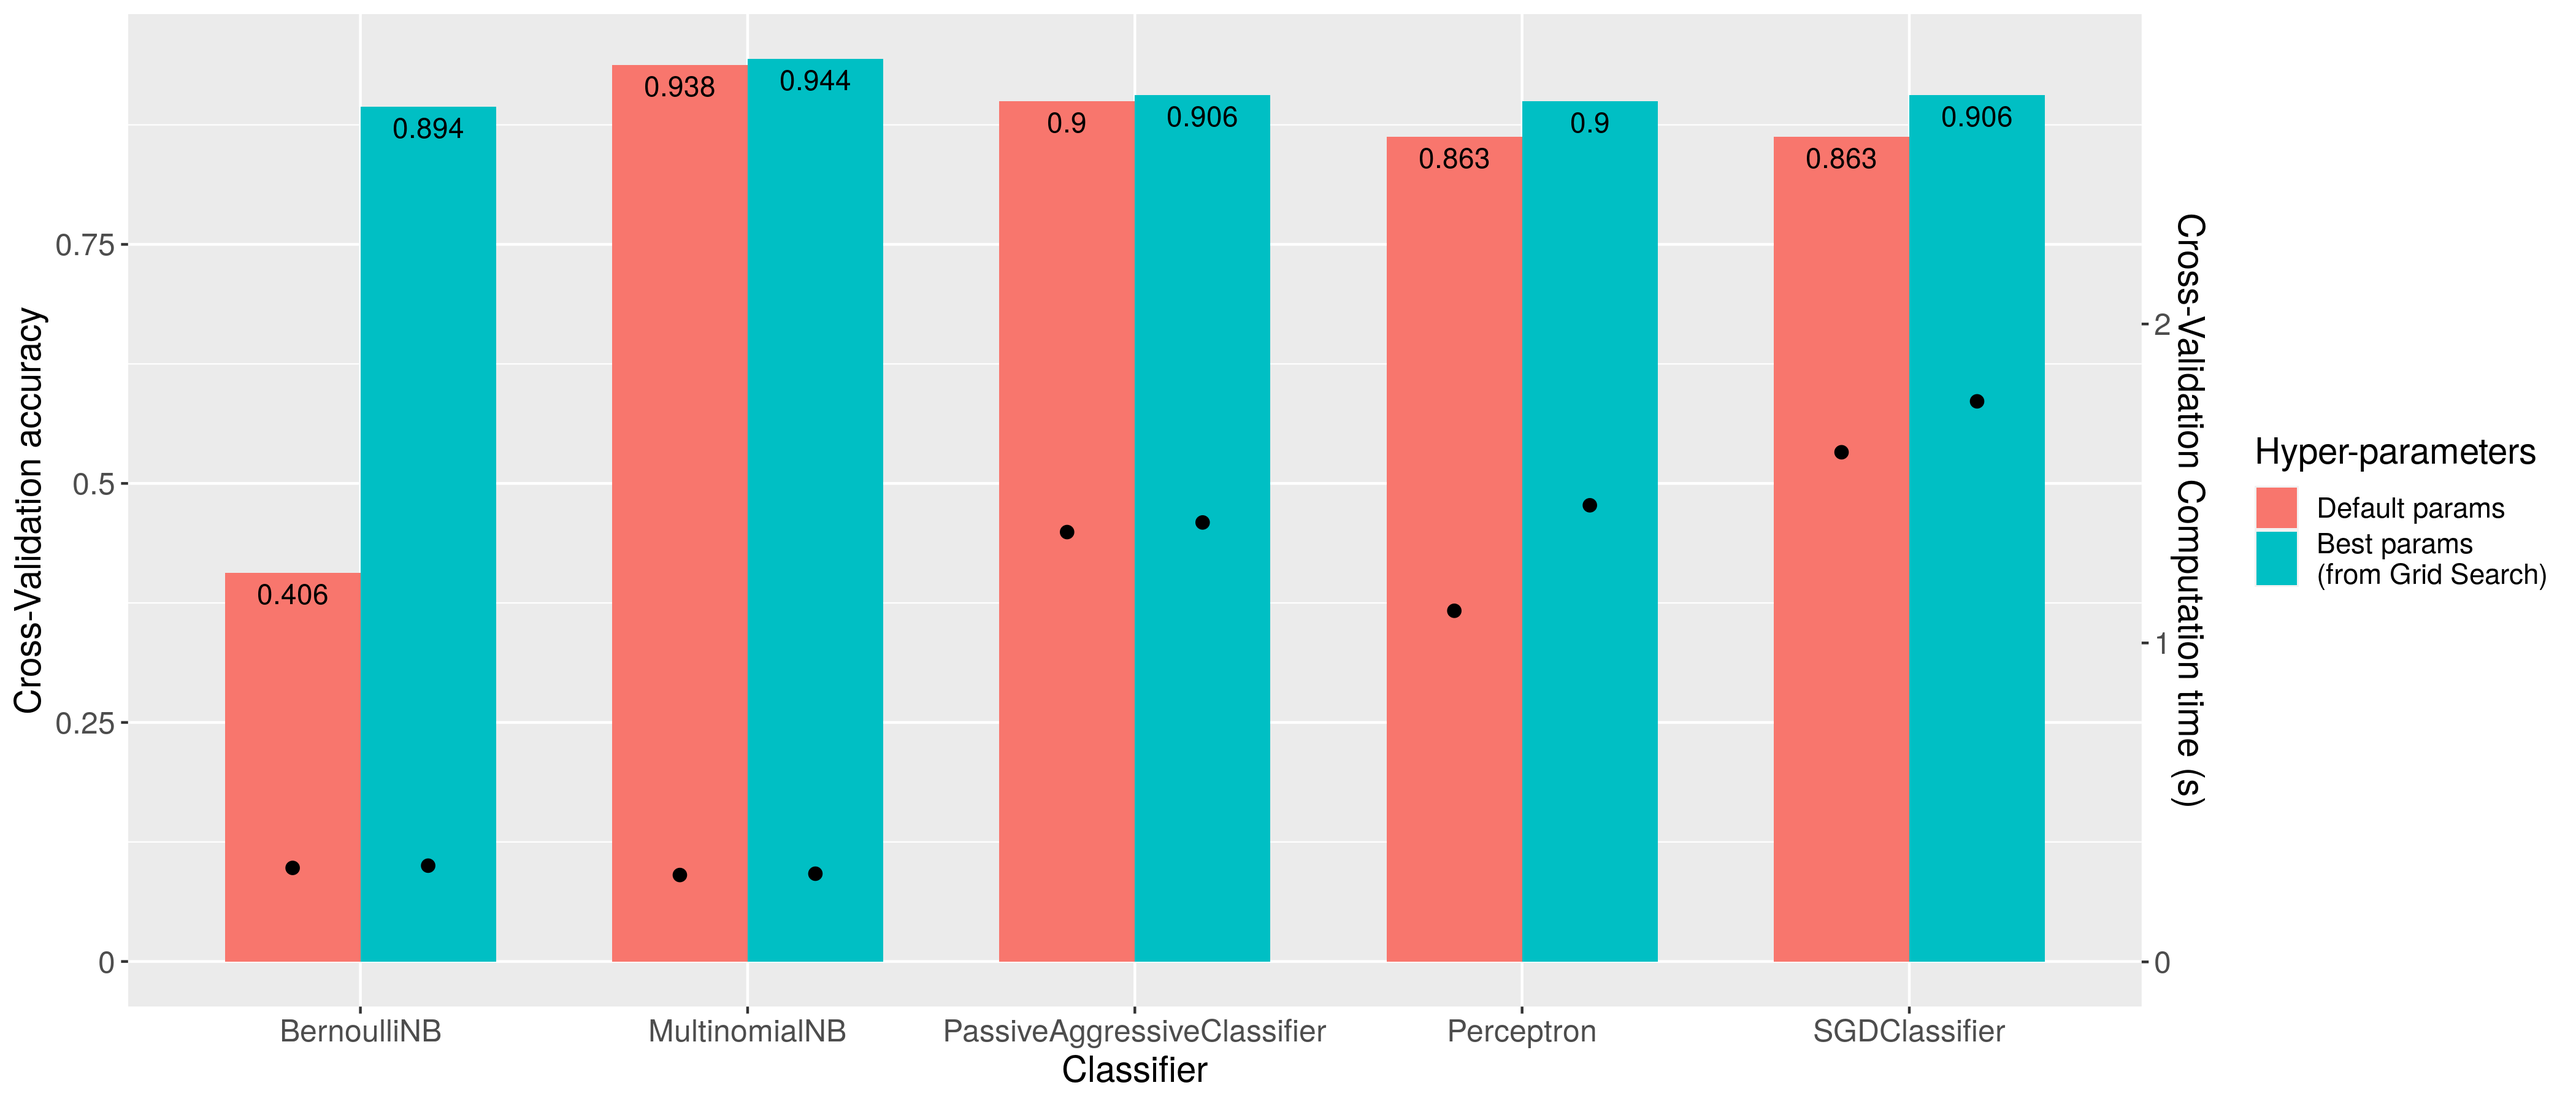
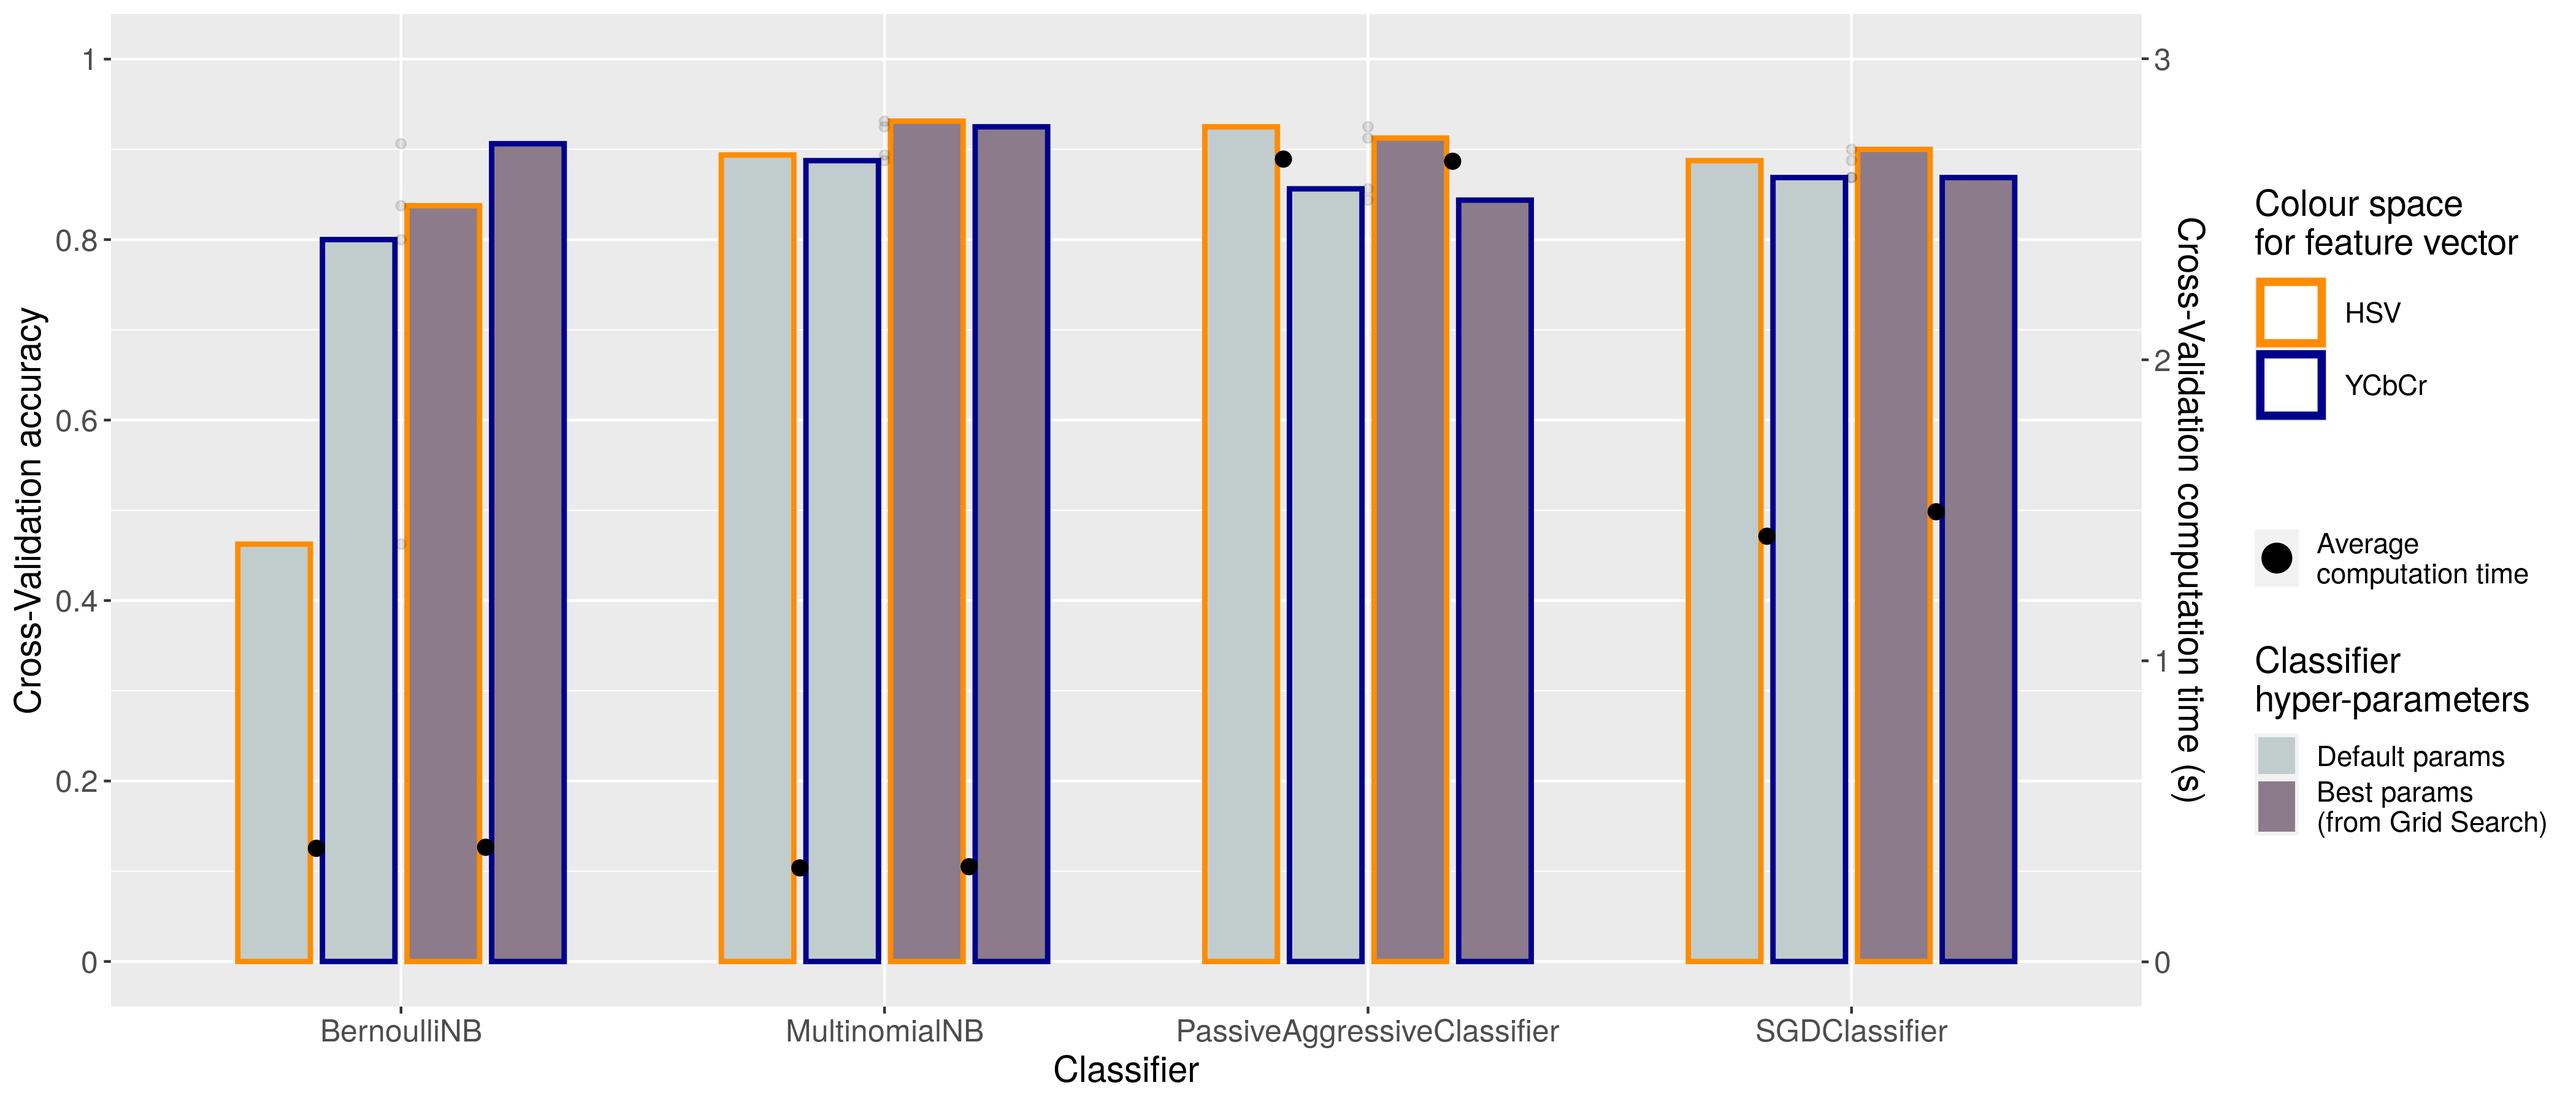
updated evalution + load tuned hyper-parameters when running classifier

diff --git a/eval.py b/eval.py
@@ -71,7 +71,8 @@ def hyperparams_grid_search(X, Y, params_grid, chosen_dataset):
         clf = GridSearchCV(estimator=clf,  # classifier object eg. BernoulliNB()
                            param_grid=parameters,
                            scoring='accuracy',
-                           cv=cv_generator)
+                           cv=cv_generator,
+                           verbose=5)
         clf.fit(X, Y)  # perform grid search to find best parameters
         best_params = clf.best_params_
         best_score = clf.best_score_
@@ -123,36 +124,37 @@ def hyperparams_grid_search(X, Y, params_grid, chosen_dataset):
 
 def tune_and_evaluate():
     params_grid = {
-        'MultinomialNB': {
-            'alpha': np.geomspace(0.0001, 1.0, num=100, endpoint=False),
-            'fit_prior': [False],
-        },
-        'BernoulliNB': {
-            'alpha': np.geomspace(0.0001, 1.0, num=20, endpoint=False),
-            'fit_prior': [False],
-            'binarize': np.linspace(0, 1.0, num=20, endpoint=False),
-        },
-        'SGDClassifier': {
-            'loss': ['hinge', 'log', 'modified_huber', 'squared_hinge', 'perceptron'],
-            'penalty': ['l2', 'l1', 'elasticnet'],
-            'fit_intercept': [True, False],
+        # 'MultinomialNB': {
+        #     'alpha': np.geomspace(0.0001, 1.0, num=100, endpoint=False),
+        #     'fit_prior': [False],
+        # },
+        # 'BernoulliNB': {
+        #     'alpha': np.geomspace(0.0001, 1.0, num=20, endpoint=False),
+        #     'fit_prior': [False],
+        #     'binarize': np.linspace(0, 1.0, num=20, endpoint=False),
+        # },
+        # 'SGDClassifier': {
+        #     'loss': ['hinge', 'log', 'modified_huber', 'squared_hinge', 'perceptron'],
+        #     'penalty': ['l2', 'l1', 'elasticnet'],
+        #     'fit_intercept': [True, False],
             # 'learning_rate': ['constant', 'optimal', 'invscaling', 'adaptive'],
 
             # 'eta0': np.geomspace(0.25, 4, num=5),
-            'max_iter': [4000]
-        },
-        'Perceptron': {
-            'alpha': np.geomspace(0.0001, 0.1, num=4, endpoint=True),
-            'penalty': ['l2', 'l1', 'elasticnet', None],
-            'fit_intercept': [True, False],
-            'eta0': np.geomspace(0.25, 4, num=5),
-            'max_iter': [4000]
-        },
+        #     'max_iter': [4000]
+        # },
+        # 'Perceptron': {
+        #     'alpha': np.geomspace(0.0001, 0.1, num=4, endpoint=True),
+        #     'penalty': ['l2', 'l1', 'elasticnet', None],
+        #     'fit_intercept': [True, False],
+        #     'eta0': np.geomspace(0.25, 4, num=5),
+        #     'max_iter': [4000]
+        # },
         'PassiveAggressiveClassifier': {
             'loss': ['hinge', 'squared_hinge'],
             'fit_intercept': [True, False],
-            'C': np.geomspace(0.125, 4, num=5),
-            'max_iter': [4000]
+            'C': np.geomspace(0.0001, 100, num=7, endpoint=True),
+            'max_iter': [1000, 2000, 4000],
+            'average': [False, 2, 8, 16, 32, 64]
         },
         # 'MLPClassifier': {
         #     'alpha': np.linspace(0.0001, 1.0, num=5, endpoint=False),
@@ -165,19 +167,14 @@ def tune_and_evaluate():
     chosen_settings = [
         {
             'channels': 'hsv',
-            'histo_bins': 10,
-            'histo_eq': False,
-        },
-        {
-            'channels': 'hsv',
-            'histo_bins': 20,
+            'histo_bins': 32,
             'histo_eq': False,
         },
         {
             'channels': 'ycbcr',
-            'histo_bins': 15,
+            'histo_bins': 32,
             'histo_eq': False,
-        }
+        },
     ]
 
     for chosen_setting in chosen_settings:
@@ -192,5 +189,5 @@ def tune_and_evaluate():
 
 
 if __name__ == '__main__':
-
-    default_evaluate()
+    tune_and_evaluate()
+    # default_evaluate()

diff --git a/classifier.py b/classifier.py
@@ -3,7 +3,7 @@ from skimage import io
 from utils.img import normalize_img, get_2d_image, get_feature_vector
 from utils.contours import get_contours, Object
 from utils.file import get_color_from_filename, get_working_directory, get_filename_from_path, file_exists
-from .classifierutils import logger, load_dataset, get_model, PATH_TO_DATASET_JSON, HISTO_BINS, CHANNELS
+from .classifierutils import logger, load_dataset, best_params, get_model, PATH_TO_DATASET_JSON, HISTO_BINS, CHANNELS
 from .dataset import generate_dataset
 
 X = []
@@ -16,8 +16,15 @@ if not file_exists(PATH_TO_DATASET_JSON):
 # generate_dataset(mask_method='polygon')
 # generate_dataset(mask_method='binary_fill')
 
+classifier = 'MultinomialNB'
 X, Y = load_dataset()
-clf = get_model(X, Y)
+clf = get_model(X, Y, classifier=classifier)
+
+dataset = get_filename_from_path(PATH_TO_DATASET_JSON, extension=True)
+if dataset in best_params:
+    if classifier in best_params[dataset]:
+        clf.set_params(**best_params[dataset][classifier])
+        logger.info("Loading tuned parameters for {}".format(classifier))
 
 
 def classify_objects(image, objects=None, save=False, filepath=None):
@@ -28,6 +35,8 @@ def classify_objects(image, objects=None, save=False, filepath=None):
     """
     global clf
     image_value = get_2d_image(image)
+
+    logger.debug("Classifier {} params: {}".format(classifier,clf.get_params()))
 
     if objects is None:
         contours = get_contours(image_value)

diff --git a/classifierutils.py b/classifierutils.py
@@ -10,7 +10,7 @@ from sklearn.neural_network import MLPClassifier
 
 from utils.logger import get_logger
 
-HISTO_BINS = 10
+HISTO_BINS = 32
 CHANNELS = 'hsv'
 
 PATH_TO_DATASET_JSON = 'src/color_classifier/dataset_json/dataset-{}-{}-.json'.format(CHANNELS, HISTO_BINS)
@@ -30,6 +30,19 @@ default_params = {
     'BernoulliNB': {
         # 'binarize': 0.5,
         'fit_prior': False
+    }
+}
+
+best_params = {
+    'dataset-hsv-32-.json': {
+        'MultinomialNB': {
+            'alpha': 0.0022908676527677745,
+            'fit_prior': False
+        },
+        'BernoulliNB': {
+            # 'binarize': 0.5,
+            'fit_prior': False
+        }
     }
 }
 
